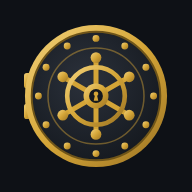
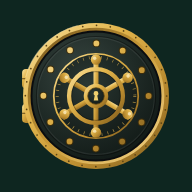
Bottle green, carved name, combination-lock wheel, Goblins at Work

Changed region(s): [[0.0938, 0.0938, 0.9062, 0.9062]]

diff --git a/index.html b/index.html
@@ -3,42 +3,79 @@
 <head>
 <meta charset="utf-8">
 <meta name="viewport" content="width=device-width, initial-scale=1, viewport-fit=cover">
-<meta name="theme-color" content="#0E1116">
+<meta name="theme-color" content="#0E2620">
 <title>Gringotts</title>
 <link rel="manifest" href="manifest.webmanifest">
 <link rel="icon" href="icon-192.png">
 <link rel="apple-touch-icon" href="icon-192.png">
+<link rel="preconnect" href="https://fonts.googleapis.com">
+<link rel="preconnect" href="https://fonts.gstatic.com" crossorigin>
+<link rel="stylesheet" href="https://fonts.googleapis.com/css2?family=Cinzel:wght@400;600;800&display=block">
 <style>
-  html, body { margin: 0; height: 100%; background: #0E1116; color: #E6EDF3; font: 16px/1.5 system-ui, sans-serif; }
+  :root { --bg: #0E2620; --gold: #E2B54C; --gold-hi: #FBE3A0; --gold-lo: #9C7424; --muted: #A9A08A; --text: #ECE6D8; }
+  html, body { margin: 0; height: 100%; background: var(--bg); color: var(--text); font: 16px/1.5 system-ui, sans-serif; }
   iframe { position: fixed; inset: 0; width: 100%; height: 100%; border: 0; }
-  #splash { position: fixed; inset: 0; display: flex; flex-direction: column; align-items: center; justify-content: center; gap: 16px; background: #0E1116; transition: opacity .3s; }
-  #splash img { width: 112px; height: 112px; border-radius: 26px; }
-  #splash span { color: #D4A537; font: 500 1.1rem Georgia, serif; letter-spacing: .08em; }
-  #splash.gone { opacity: 0; pointer-events: none; }
+
+  /* the vault: shared by the opening screen and the setup screen */
+  .vault { display: flex; flex-direction: column; align-items: center; text-align: center; }
+  .door-wrap { position: relative; }
+  .door-wrap::before { content: ""; position: absolute; inset: -30%; border-radius: 50%;
+    background: radial-gradient(closest-side, rgba(226,181,76,.22), rgba(226,181,76,0)); }
+  .door { position: relative; display: block; width: 100%; height: 100%; }
+  .word { margin: 22px 0 0; font: 800 clamp(1.7rem, 7vw, 2.4rem)/1 Cinzel, Georgia, serif; letter-spacing: .2em; padding-left: .2em;
+    background: linear-gradient(180deg, var(--gold-hi), var(--gold) 55%, var(--gold-lo)); -webkit-background-clip: text; background-clip: text; color: transparent;
+    filter: drop-shadow(0 1px 0 #3E2E0C) drop-shadow(0 2px 3px rgba(0,0,0,.45)); }   /* carved into stone */
+  .rule { display: flex; align-items: center; gap: 10px; margin: 14px 0 0; width: min(220px, 60vw); }
+  .rule::before, .rule::after { content: ""; flex: 1; height: 1px; background: linear-gradient(90deg, rgba(226,181,76,0), var(--gold)); }
+  .rule::after { transform: scaleX(-1); }
+  .rule i { width: 6px; height: 6px; background: var(--gold); transform: rotate(45deg); }
+  .tag { margin: 12px 0 0; font: 400 .78rem Cinzel, Georgia, serif; letter-spacing: .28em; padding-left: .28em; color: var(--muted); }
+
+  #splash { position: fixed; inset: 0; display: flex; align-items: center; justify-content: center; background: var(--bg); }
   #splash[hidden] { display: none; }
-  .logo { width: 72px; height: 72px; border-radius: 18px; display: block; margin-bottom: 16px; }
-  main { max-width: 28rem; margin: 0 auto; padding: 48px 16px; }
-  h1 { font-size: 1.4rem; margin: 0 0 8px; }
-  p { color: #9AA4AF; margin: 0 0 16px; }
-  label { display: block; margin-bottom: 6px; }
-  input { box-sizing: border-box; width: 100%; padding: 12px; border-radius: 10px; border: 1px solid #2A313A; background: #161B22; color: inherit; font: inherit; }
-  input:focus-visible, button:focus-visible { outline: 2px solid #4FD1A5; outline-offset: 2px; }
-  button { margin-top: 12px; width: 100%; min-height: 48px; border: 0; border-radius: 10px; background: #4FD1A5; color: #0E1116; font: 600 1rem system-ui, sans-serif; }
-  .err { color: #F28B82; min-height: 1.5em; margin: 8px 0 0; }
+  #splash .door-wrap { width: min(46vw, 200px); height: min(46vw, 200px); }
+  #splash .door svg { display: block; width: 100%; height: 100%; }
+  #splash.unlock .bolts { transition: transform .45s cubic-bezier(.3,0,.2,1); transform: scale(.9); }   /* bolts pull in */
+  #splash.open { animation: fade .45s ease-in .4s forwards; pointer-events: none; }
+  @keyframes fade { to { opacity: 0; } }
+  @media (prefers-reduced-motion: reduce) { #splash.open { animation-delay: 0s; } }
+
+  main { max-width: 26rem; margin: 0 auto; padding: max(48px, 8vh) 16px 32px; }
+  main .door-wrap { width: 112px; height: 112px; }
+  form { margin-top: 36px; }
+  label { display: block; margin-bottom: 6px; font-size: .9rem; color: var(--text); }
+  .hint { color: var(--muted); font-size: .9rem; margin: 0 0 20px; text-align: center; }
+  input { box-sizing: border-box; width: 100%; min-height: 48px; padding: 12px; border-radius: 10px; border: 1px solid #2C4A41; background: #12302A; color: inherit; font: inherit; }
+  input:focus-visible, button:focus-visible { outline: 2px solid var(--gold); outline-offset: 2px; }
+  button { margin-top: 12px; width: 100%; min-height: 48px; border: 0; border-radius: 10px; color: #2A1E05; cursor: pointer;
+    background: linear-gradient(180deg, var(--gold-hi), var(--gold)); font: 600 .95rem Cinzel, Georgia, serif; letter-spacing: .14em; }
+  .err { color: #F28B82; min-height: 1.5em; margin: 8px 0 0; font-size: .9rem; }
 </style>
 </head>
 <body>
 <!-- This page is public: it holds no link, secret or data. Each phone keeps its own app link in this browser's storage. -->
-<div id="splash" hidden><img src="logo.svg" alt=""><span>Gringotts</span></div>
+<div id="splash" hidden>
+  <div class="vault">
+    <div class="door-wrap">
+      <div class="door"><img src="logo.svg" alt="" style="width:100%;height:100%"></div>
+    </div>
+    <p class="word">Gringotts</p>
+    <div class="rule"><i></i></div>
+    <p class="tag">Goblins at Work</p>
+  </div>
+</div>
 <main id="setup" hidden>
-  <img class="logo" src="icon-192.png" alt="">
-  <h1>Gringotts</h1>
-  <p>Paste your personal app link once. It stays on this phone only. To change it later, long-press the app icon and pick Change link.</p>
+  <div class="vault">
+    <div class="door-wrap"><img class="door" src="logo.svg" alt=""></div>
+    <h1 class="word">Gringotts</h1>
+    <div class="rule"><i></i></div>
+  </div>
   <form id="f">
+    <p class="hint">Paste your personal app link once. It stays on this phone only. To change it later, long-press the app icon and pick Change link.</p>
     <label for="link">App link</label>
-    <input id="link" type="url" inputmode="url" autocomplete="off" placeholder="https://…" required>
+    <input id="link" type="url" inputmode="url" autocomplete="off" placeholder="https://script.google.com/…" required>
     <p class="err" id="err" role="alert"></p>
-    <button type="submit">Open</button>
+    <button type="submit">Open the vault</button>
   </form>
 </main>
 <script>
@@ -46,18 +83,37 @@
   function saved() { try { return localStorage.getItem(KEY) || ''; } catch (e) { return ''; } }
   if ('serviceWorker' in navigator) navigator.serviceWorker.register('sw.js').catch(function () {});
   var link = saved();
-  if (link && !/[?&]change\b/.test(location.search)) {
-    var fr = document.createElement('iframe');
-    fr.src = link; fr.title = 'Gringotts';
-    fr.allow = 'clipboard-read; clipboard-write';
-    var sp = document.getElementById('splash');
-    sp.hidden = false;   // vault wheel spins until the app has loaded
-    fr.addEventListener('load', function () { sp.classList.add('gone'); setTimeout(function () { sp.remove(); }, 400); });
-    document.body.insertBefore(fr, sp);
+  var demo = /[?&]demo\b/.test(location.search);   // ?demo: plays the opening with a pretend 2.5 s load, no app
+  if ((link || demo) && !/[?&]change\b/.test(location.search)) {
+    var sp = document.getElementById('splash'), shown = Date.now(), door = sp.querySelector('.door'), wheel = null;
+    sp.hidden = false;   // the wheel turns back and forth like a combination lock while the app loads
+    // Put the door drawing into the page itself, so the wheel and bolts can be moved from here.
+    fetch('logo.svg').then(function (r) { return r.text(); }).then(function (t) {
+      door.innerHTML = t; wheel = door.querySelector('.wheel');
+    }).catch(function () {});
+    var opened = false, open = function () {
+      if (opened) return; opened = true;
+      var still = matchMedia('(prefers-reduced-motion: reduce)').matches;
+      sp.classList.add('unlock');   // the wheel stops where it is, the bolts pull in, then the app fades in
+      if (wheel) wheel.style.animationPlayState = 'paused';
+      sp.classList.add('open');
+      setTimeout(function () { sp.remove(); }, still ? 500 : 900);
+    };
+    var ready = function () { setTimeout(open, Math.max(0, 3000 - (Date.now() - shown))); };   // one full combination first
+    sp.addEventListener('click', open);   // tap to skip
+    if (demo) setTimeout(ready, 2500);
+    else {
+      var fr = document.createElement('iframe');
+      fr.src = link; fr.title = 'Gringotts';
+      fr.allow = 'clipboard-read; clipboard-write';
+      fr.addEventListener('load', ready);
+      document.body.insertBefore(fr, sp);
+    }
   } else {
     document.getElementById('setup').hidden = false;
     var inp = document.getElementById('link');
     inp.value = link;
+    inp.addEventListener('input', function () { document.getElementById('err').textContent = ''; });
     document.getElementById('f').addEventListener('submit', function (e) {
       e.preventDefault();
       var v = inp.value.trim();
